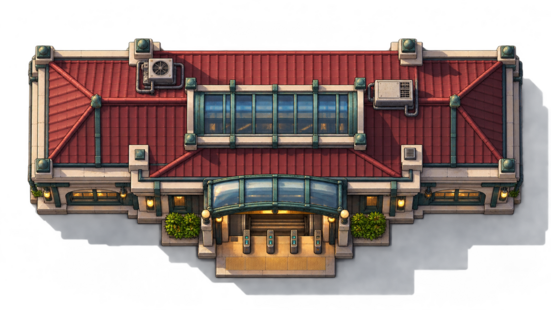
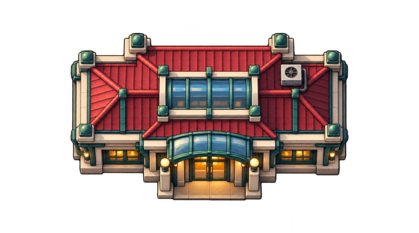
Add 4TH-HEAVEN v0.2.7 (modified files only)

diff --git a/PATCH-NOTES.md b/PATCH-NOTES.md
@@ -1,4 +1,14 @@
-# 4TH HEAVEN v0.2.6 — Cinematic Driving & PNG Station
+# 4TH HEAVEN v0.2.7 — Continuous Camera & Night Coverage
+
+- Replaced stepped camera target snapshots with delayed, continuously updating turn follow.
+- Reduced camera angular speed and added settle hysteresis so long turns remain fluid without small-input twitching.
+- Redesigned the central building as a truly compact raster pavilion with human-scale doors and no baked ground shadow.
+- Added a separate time-aware station shadow and tightened its physical collision footprint.
+- Rebuilt streetlight distribution along every road segment with alternating sides and overlapping road-facing pools.
+
+---
+
+## Previous: v0.2.6 — Cinematic Driving & PNG Station
 
 - Added delayed cinematic camera rotation with a 27-degree dead zone, held-turn detection and bounded angular speed.
 - Added smooth 0.62-second camera blends when entering and exiting sideways vehicles.
